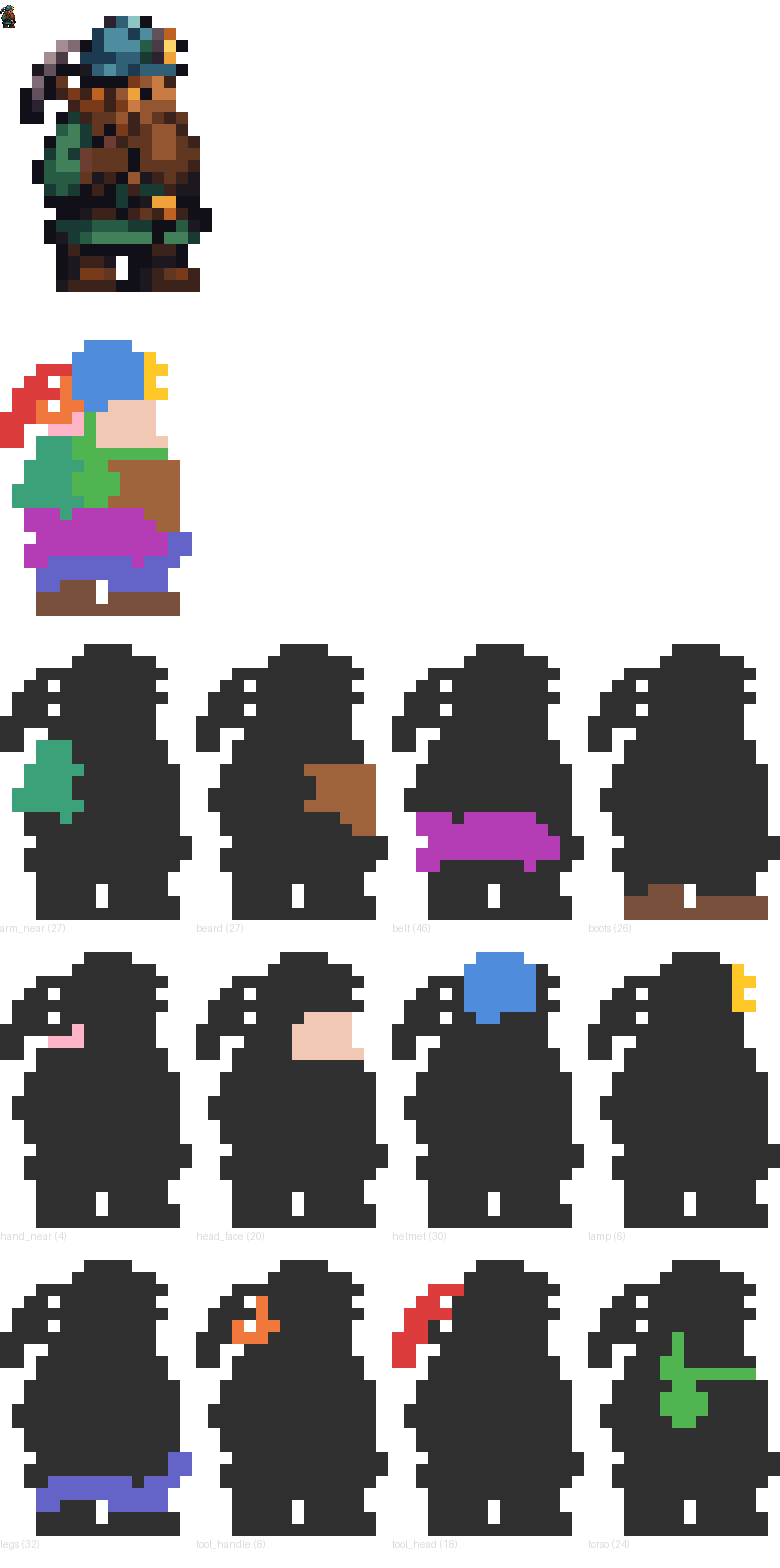
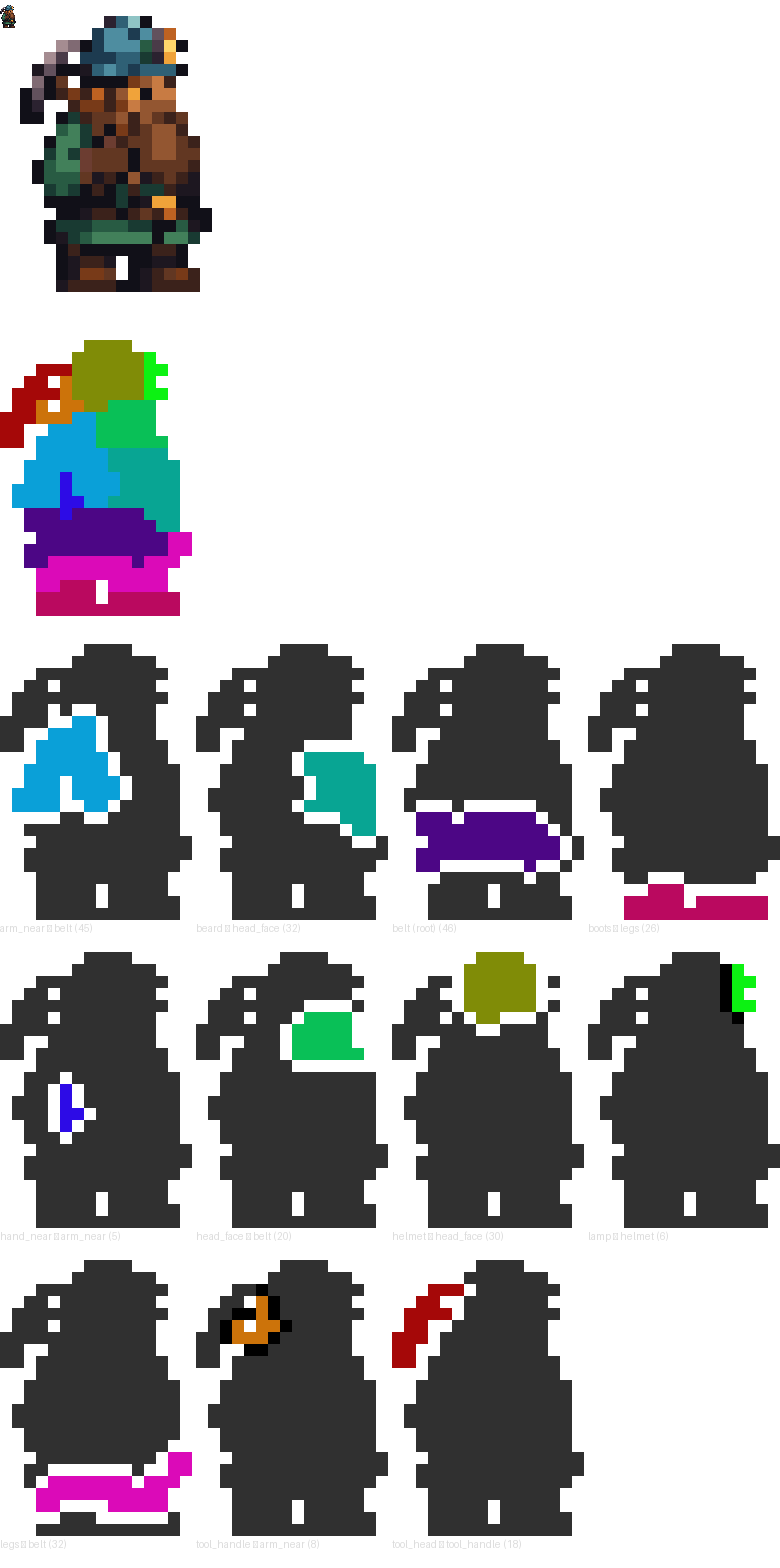
Rework dwarf part map per amended issue #298 spec.
Delete torso and re-root the kinematic chain at belt; re-derive hand_near on
skin cells; parent tool_handle to arm_near with tool_not_carried validation;
separate review colours (CIE76 ΔE ≥ 40), contrast borders, and parent labels.

diff --git a/tests/test_parts.py b/tests/test_parts.py
@@ -19,7 +19,9 @@ from pipeline.parts import (
     _four_connected_blobs,
     lattice_orientation,
     load_part_map,
+    minimum_review_color_delta_e,
     render_part_map,
+    review_tile_label,
 )
 
 ROOT = Path(__file__).resolve().parents[1]
@@ -29,11 +31,10 @@ IDENTITY_LOCKS_JSON = ROOT / "assets" / "first-room" / "dwarf" / "identity-locks
 BASE_FRAME = ROOT / "assets" / "first-room" / "dwarf" / "idle" / "release" / "frame-0.png"
 ROLES_JSON = ROOT / "assets" / "first-room" / "dwarf" / "idle" / "polished-roles.json"
[1 lines of base64/hex data omitted]
-REDERIVED_PART_IDS = frozenset({"torso", "arm_near", "hand_near", "head_face", "beard"})
+REDERIVED_PART_IDS = frozenset({"arm_near", "hand_near", "head_face", "beard"})
 PART_DOMINANT_ROLES = {
-    "torso": frozenset({"earth-leather-beard", "green-cloth"}),
-    "arm_near": frozenset({"green-cloth"}),
-    "hand_near": frozenset({"amber-emission", "earth-leather-beard", "skin"}),
+    "arm_near": frozenset({"green-cloth", "skin", "earth-leather-beard"}),
+    "hand_near": frozenset({"skin", "earth-leather-beard", "dark-outline"}),
     "head_face": frozenset({"earth-leather-beard", "skin", "amber-emission"}),
     "beard": frozenset({"earth-leather-beard"}),
 }
@@ -45,7 +46,6 @@ REQUIRED_PART_IDS = frozenset(
         "lamp",
         "head_face",
         "beard",
-        "torso",
         "arm_near",
         "hand_near",
         "belt",
@@ -59,7 +59,7 @@ TOOL_HEAD_CORE = frozenset(
 TOOL_BBOX_RECT = {(x, y) for y in range(1, 8) for x in range(0, 6)}
 TOOL_BBOX_CELL_COUNT = 21
 TOOL_PART_CELL_COUNT = 26
-OUTLINE_CONNECTIVITY_EXCEPTIONS = frozenset({(14, 16), (14, 17), (14, 18), (15, 17)})
+OUTLINE_CONNECTIVITY_EXCEPTIONS = frozenset({(5, 15), (14, 16), (14, 17), (14, 18), (15, 17)})
 
 
 def _opaque_cells(path: Path = BASE_FRAME) -> set[tuple[int, int]]:
@@ -180,13 +180,23 @@ def test_c1_rederived_parts_are_single_blobs_with_expected_roles(part_map) -> No
     assert assigned == _opaque_cells()
 
 
+def test_c1_belt_is_root_and_hand_near_covers_skin_cells(part_map) -> None:
+    assert "torso" not in part_map.parts
+    belt = part_map.parts["belt"]
+    assert belt.parent is None
+    assert belt.pivot == (11, 16)
+    hand = part_map.parts["hand_near"]
+    assert (5, 12) in hand.cells
+    assert (5, 13) in hand.cells
+
+
 def test_c2_checked_in_map_is_connected_and_fixture_splits_blob(tmp_path: Path, part_map) -> None:
     for part in part_map.parts.values():
         assert len(_four_connected_blobs(part.cells)) == 1
 
     payload = json.loads(PARTS_JSON.read_text(encoding="utf-8"))
-    bridge = "8,12"
-    payload["parts"]["torso"]["cells"].remove(bridge)
+    bridge = "10,14"
+    payload["parts"]["beard"]["cells"].remove(bridge)
     payload["parts"]["arm_near"]["cells"].append(bridge)
     path = tmp_path / "parts.json"
     path.write_text(json.dumps(payload), encoding="utf-8")
@@ -221,19 +231,24 @@ def test_c3_landmarks_match_identity_locks_and_fixture_moves_eye(
     assert exc_info.value.reason_code == "landmark_part_mismatch"
 
 
-def test_c4_checked_in_grip_is_held_and_fixture_moves_grip(tmp_path: Path, part_map) -> None:
+def test_c4_tool_handle_is_carried_and_fixture_breaks_contact(tmp_path: Path, part_map) -> None:
     handle = part_map.parts["tool_handle"]
-    hand = part_map.parts["hand_near"]
-    assert handle.grip is not None
-    assert any(_chebyshev(handle.grip, cell) <= 1 for cell in hand.cells)
+    assert handle.parent == "arm_near"
+    assert handle.parent != "hand_near"
+    parent = part_map.parts[handle.parent]
+    assert any(
+        _chebyshev(handle_cell, parent_cell) <= 1
+        for handle_cell in handle.cells
+        for parent_cell in parent.cells
+    )
 
     payload = json.loads(PARTS_JSON.read_text(encoding="utf-8"))
-    payload["parts"]["tool_handle"]["grip"] = [0, 1]
+    payload["parts"]["tool_handle"]["parent"] = "boots"
     path = tmp_path / "parts.json"
     path.write_text(json.dumps(payload), encoding="utf-8")
-    with pytest.raises(PartMapError, match="grip") as exc_info:
+    with pytest.raises(PartMapError, match="carried") as exc_info:
         load_part_map(path)
-    assert exc_info.value.reason_code == "grip_not_held"
+    assert exc_info.value.reason_code == "tool_not_carried"
 
 
 def test_c5_render_part_map_declares_review_colors_and_panels(part_map) -> None:
@@ -250,7 +265,17 @@ def test_c5_render_part_map_declares_review_colors_and_panels(part_map) -> None:
     tile_rows = (len(part_ids) + 3) // 4
     expected_h = 8 + panel1_h + 8 + panel2_h + 8 + tile_rows * (tile_h + label_h + 4) + 8
     assert image.size[1] == expected_h
-    assert expected_panel_count == 14
+    assert expected_panel_count == 13
+
+
+def test_c7_review_colors_are_separated() -> None:
+    assert minimum_review_color_delta_e() >= 40
+
+
+def test_c8_review_tile_labels_name_parent_chain(part_map) -> None:
+    assert review_tile_label("belt", part_map.parts["belt"]) == "belt (root) (46)"
+    hand = part_map.parts["hand_near"]
+    assert review_tile_label("hand_near", hand) == f"hand_near \u2190 arm_near ({len(hand.cells)})"
 
 
 def test_c6_parts_review_png_matches_render(part_map) -> None:
@@ -288,7 +313,7 @@ def test_c3_tool_footprint_matches_measured_bbox(part_map) -> None:
     assert TOOL_HEAD_CORE <= part_map.parts["tool_head"].cells
 
 
-def test_c4_parent_chain_reaches_torso_without_cycle(part_map) -> None:
+def test_c4_parent_chain_reaches_belt_without_cycle(part_map) -> None:
     seen: set[str] = set()
 
     def walk(part_id: str) -> None:
@@ -303,12 +328,16 @@ def test_c4_parent_chain_reaches_torso_without_cycle(part_map) -> None:
 
     walk("tool_head")
     assert part_map.parts["tool_head"].parent == "tool_handle"
-    assert part_map.parts["tool_handle"].parent == "hand_near"
+    assert part_map.parts["tool_handle"].parent == "arm_near"
     assert part_map.parts["hand_near"].parent == "arm_near"
-    assert part_map.parts["arm_near"].parent == "torso"
-    assert part_map.parts["torso"].parent is None
-    for child in ("helmet", "beard", "belt", "legs", "boots", "head_face", "lamp"):
-        assert part_map.parts[child].parent == "torso"
+    assert part_map.parts["arm_near"].parent == "belt"
+    assert part_map.parts["belt"].parent is None
+    assert part_map.parts["legs"].parent == "belt"
+    assert part_map.parts["boots"].parent == "legs"
+    assert part_map.parts["head_face"].parent == "belt"
+    assert part_map.parts["helmet"].parent == "head_face"
+    assert part_map.parts["lamp"].parent == "helmet"
+    assert part_map.parts["beard"].parent == "head_face"
 
 
 def test_c5_tool_handle_grip_is_authored_and_inside_part(part_map) -> None:
@@ -332,8 +361,8 @@ def test_c6_rejects_base_digest_mismatch(tmp_path: Path) -> None:
 
 def test_c6_rejects_unassigned_opaque_cell(tmp_path: Path) -> None:
     payload = json.loads(PARTS_JSON.read_text(encoding="utf-8"))
-    torso_cells = payload["parts"]["torso"]["cells"]
-    payload["parts"]["torso"]["cells"] = torso_cells[:-1]
+    belt_cells = payload["parts"]["belt"]["cells"]
+    payload["parts"]["belt"]["cells"] = belt_cells[:-1]
     path = tmp_path / "parts.json"
     path.write_text(json.dumps(payload), encoding="utf-8")
     with pytest.raises(PartMapError, match="unassigned") as exc_info:
@@ -343,7 +372,7 @@ def test_c6_rejects_unassigned_opaque_cell(tmp_path: Path) -> None:
 
 def test_c6_rejects_duplicate_cell_claim(tmp_path: Path) -> None:
     payload = json.loads(PARTS_JSON.read_text(encoding="utf-8"))
-    stolen = payload["parts"]["torso"]["cells"][0]
+    stolen = payload["parts"]["belt"]["cells"][0]
     payload["parts"]["helmet"]["cells"].append(stolen)
     path = tmp_path / "parts.json"
     path.write_text(json.dumps(payload), encoding="utf-8")
@@ -355,7 +384,7 @@ def test_c6_rejects_duplicate_cell_claim(tmp_path: Path) -> None:
 def test_c6_rejects_missing_required_part(tmp_path: Path) -> None:
     payload = json.loads(PARTS_JSON.read_text(encoding="utf-8"))
     beard_cells = payload["parts"].pop("beard")["cells"]
-    payload["parts"]["torso"]["cells"].extend(beard_cells)
+    payload["parts"]["belt"]["cells"].extend(beard_cells)
     path = tmp_path / "parts.json"
     path.write_text(json.dumps(payload), encoding="utf-8")
     with pytest.raises(PartMapError, match="missing required part") as exc_info:

diff --git a/pipeline/parts.py b/pipeline/parts.py
@@ -21,7 +21,9 @@ __all__ = [
     "_REVIEW_COLORS",
     "lattice_orientation",
     "load_part_map",
+    "minimum_review_color_delta_e",
     "render_part_map",
+    "review_tile_label",
 ]
 
 SCHEMA = "cell-part-map/0"
@@ -39,18 +41,17 @@ ORIENTATION_IDS = (
 )
 REVIEW_SCALE = 12
 _REVIEW_COLORS: dict[str, tuple[int, int, int, int]] = {
-    "tool_head": (220, 60, 60, 255),
-    "tool_handle": (240, 120, 60, 255),
-    "helmet": (80, 140, 220, 255),
-    "lamp": (255, 200, 40, 255),
-    "head_face": (240, 200, 180, 255),
-    "beard": (160, 100, 60, 255),
-    "torso": (80, 180, 80, 255),
-    "arm_near": (60, 160, 120, 255),
-    "hand_near": (255, 180, 200, 255),
-    "belt": (180, 60, 180, 255),
-    "legs": (100, 100, 200, 255),
-    "boots": (120, 80, 60, 255),
+    "tool_head": (165, 8, 8, 255),
+    "tool_handle": (204, 115, 10, 255),
+    "helmet": (128, 140, 7, 255),
+    "lamp": (12, 242, 18, 255),
+    "head_face": (9, 192, 87, 255),
+    "beard": (8, 165, 147, 255),
+    "arm_near": (10, 160, 216, 255),
+    "hand_near": (45, 11, 230, 255),
+    "belt": (76, 6, 133, 255),
+    "legs": (219, 10, 184, 255),
+    "boots": (186, 9, 95, 255),
 }
 _LANDMARK_PART_IDS: dict[str, str] = {
     "lamp": "lamp",
@@ -67,7 +68,6 @@ _REQUIRED_PART_IDS = frozenset(
         "lamp",
         "head_face",
         "beard",
-        "torso",
         "arm_near",
         "hand_near",
         "belt",
@@ -318,29 +318,28 @@ def _validate_landmark_parts(parsed_parts: dict[str, Part]) -> None:
             )
 
 
-def _validate_grip_held(parsed_parts: dict[str, Part]) -> None:
+def _validate_tool_carried(parsed_parts: dict[str, Part]) -> None:
     handle = parsed_parts["tool_handle"]
-    if handle.grip is None:
-        raise PartMapError(
-            "tool_handle must declare a grip",
-            reason_code="grip_not_held",
-        )
     parent_id = handle.parent
     if parent_id is None:
         raise PartMapError(
-            "tool_handle must declare a parent hand",
-            reason_code="grip_not_held",
+            "tool_handle must declare a parent part",
+            reason_code="tool_not_carried",
         )
-    hand = parsed_parts.get(parent_id)
-    if hand is None:
+    parent = parsed_parts.get(parent_id)
+    if parent is None:
         raise PartMapError(
             f"tool_handle parent {parent_id!r} is unknown",
-            reason_code="grip_not_held",
+            reason_code="tool_not_carried",
         )
-    if not any(_chebyshev(handle.grip, cell) <= 1 for cell in hand.cells):
+    if not any(
+        _chebyshev(handle_cell, parent_cell) <= 1
+        for handle_cell in handle.cells
+        for parent_cell in parent.cells
+    ):
         raise PartMapError(
-            f"tool_handle grip {handle.grip[0]},{handle.grip[1]} is not held by parent {parent_id!r}",
-            reason_code="grip_not_held",
+            f"tool_handle is not carried by parent {parent_id!r}",
+            reason_code="tool_not_carried",
         )
 
 
@@ -474,13 +473,7 @@ def load_part_map(path: Path | str) -> PartMap:
             pivot_raw,
             where=f"parts.{part_id}.pivot",
         )
-        if parent is None:
-            if pivot is not None:
-                raise PartMapError(
-                    f"part {part_id!r} root cannot declare a pivot",
-                    reason_code="invalid_part_map_parent",
-                )
-        elif pivot is None:
+        if parent is not None and pivot is None:
             raise PartMapError(
                 f"part {part_id!r} must declare a pivot",
                 reason_code="invalid_part_map_parent",
@@ -578,7 +571,7 @@ def load_part_map(path: Path | str) -> PartMap:
 
     _validate_part_connectivity(parsed_parts)
     _validate_landmark_parts(parsed_parts)
-    _validate_grip_held(parsed_parts)
+    _validate_tool_carried(parsed_parts)
 
     return PartMap(
         schema=SCHEMA,
@@ -597,6 +590,60 @@ def build_rigid_orientations(
         orientation_id: _footprint_to_payload(lattice_orientation(rot0, orientation_id))
         for orientation_id in ORIENTATION_IDS
     }
+
+
+def _rgb_to_lab(r: int, g: int, b: int) -> tuple[float, float, float]:
+    def pivot(channel: float) -> float:
+        return ((channel + 0.055) / 1.055) ** 2.4 if channel > 0.04045 else channel / 12.92
+
+    red, green, blue = (
+        pivot(r / 255.0),
+        pivot(g / 255.0),
+        pivot(b / 255.0),
+    )
+    x = red * 0.4124 + green * 0.3576 + blue * 0.1805
+    y = red * 0.2126 + green * 0.7152 + blue * 0.0722
+    z = red * 0.0193 + green * 0.1192 + blue * 0.9505
+    x /= 0.95047
+    z /= 1.08883
+
+    def f(channel: float) -> float:
+        return channel ** (1 / 3) if channel > 0.008856 else (7.787 * channel) + (16 / 116)
+
+    fx, fy, fz = f(x), f(y), f(z)
+    return (116.0 * fy) - 16.0, 500.0 * (fx - fy), 200.0 * (fy - fz)
+
+
+def _cie76_delta_e(
+    left: tuple[int, int, int, int],
+    right: tuple[int, int, int, int],
+) -> float:
+    lab_left = _rgb_to_lab(left[0], left[1], left[2])
+    lab_right = _rgb_to_lab(right[0], right[1], right[2])
+    return sum((a - b) ** 2 for a, b in zip(lab_left, lab_right)) ** 0.5
+
+
+def minimum_review_color_delta_e() -> float:
+    colors = list(_REVIEW_COLORS.values())
+    return min(
+        _cie76_delta_e(colors[index], colors[other])
+        for index in range(len(colors))
+        for other in range(index + 1, len(colors))
+    )
+
+
+def review_tile_label(part_id: str, part: Part) -> str:
+    count = len(part.cells)
+    if part.parent is None:
+        return f"{part_id} (root) ({count})"
+    return f"{part_id} \u2190 {part.parent} ({count})"
+
+
+def _contrast_border_rgba(color: tuple[int, int, int, int]) -> tuple[int, int, int, int]:
+    luminance = 0.299 * color[0] + 0.587 * color[1] + 0.114 * color[2]
+    if luminance < 128:
+        return (255, 255, 255, 255)
+    return (0, 0, 0, 255)
 
 
 def render_part_map(part_map: PartMap, base_path: Path | str) -> "Image.Image":
@@ -667,6 +714,13 @@ def render_part_map(part_map: PartMap, base_path: Path | str) -> "Image.Image":
         tile_y = y + row * (tile_h + label_h + 4)
         part = part_map.parts[part_id]
         part_color = _REVIEW_COLORS[part_id]
+        border_color = _contrast_border_rgba(part_color)
+        border_cells: set[tuple[int, int]] = set()
+        for cell_x, cell_y in part.cells:
+            for dx, dy in ((0, 1), (0, -1), (1, 0), (-1, 0)):
+                neighbor = (cell_x + dx, cell_y + dy)
+                if neighbor not in part.cells and base_cells[cell_y][cell_x] is not None:
+                    border_cells.add(neighbor)
         tile_lookup: dict[tuple[int, int], tuple[int, int, int, int]] = {}
         for cell_y, row_cells in enumerate(base_cells):
             for cell_x, cell in enumerate(row_cells):
@@ -675,11 +729,13 @@ def render_part_map(part_map: PartMap, base_path: Path | str) -> "Image.Image":
                 coord = (cell_x, cell_y)
                 if coord in part.cells:
                     tile_lookup[coord] = part_color
+                elif coord in border_cells:
+                    tile_lookup[coord] = border_color
                 else:
                     tile_lookup[coord] = _NEUTRAL_REVIEW_RGBA
         tile = frame_from_rgba(tile_lookup).resize((tile_w, tile_h), Image.NEAREST)
         sheet.paste(tile, (x, tile_y))
-        label = f"{part_id} ({len(part.cells)})"
+        label = review_tile_label(part_id, part)
         draw.text((x, tile_y + tile_h + 2), label, fill=(220, 220, 220, 255), font=font)
 
     return sheet
